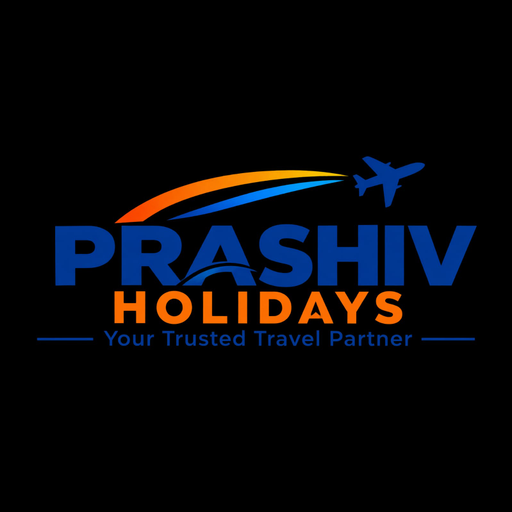
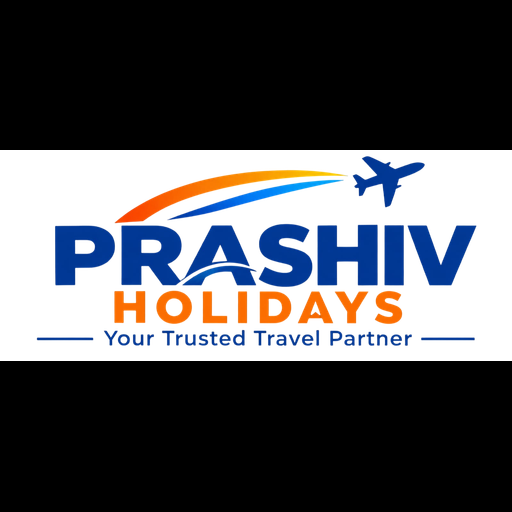
fix

diff --git a/app/admin/dashboard/page.js b/app/admin/dashboard/page.js
@@ -220,6 +220,17 @@ export default function Dashboard() {
       .then(s => { _demoMode = s?.demo_mode === 'true'; setDemoMode(_demoMode) })
       .catch(() => {})
   }, [])
+
+  useEffect(() => {
+    const isAnyModalOpen = !!modal || !!enqModal || !!testimonialModal;
+    if (isAnyModalOpen) {
+      document.body.style.overflow = 'hidden';
+    } else {
+      document.body.style.overflow = '';
+    }
+    return () => { document.body.style.overflow = ''; }
+  }, [modal, enqModal, testimonialModal])
+
   const [adminUsername, setAdminUsername] = useState('')
   const [newUsername, setNewUsername] = useState('')
   const [usernameSaving, setUsernameSaving] = useState(false)
@@ -810,7 +821,7 @@ export default function Dashboard() {
         {/* Sidebar */}
         <div style={{ width: 250, background: '#fff', borderRight: '1px solid #f3f4f6', height: '100vh', position: 'sticky', top: 0, display: 'flex', flexDirection: 'column', flexShrink: 0 }}>
           <div style={{ padding: '20px', display: 'flex', alignItems: 'center', gap: 10, borderBottom: '1px solid #f3f4f6' }}>
-            <Image src="/logo-new.jpeg" alt="Prashiv Holiday" width={96} height={96} style={{ objectFit: 'contain' }} />
+            <Image src="/logo-new.png" alt="Prashiv Holiday" width={96} height={96} style={{ objectFit: 'contain' }} />
           </div>
           <div style={{ flex: 1, padding: '20px 0', overflowY: 'auto' }}>
             {[

diff --git a/app/admin/page.js b/app/admin/page.js
@@ -55,7 +55,7 @@ export default function AdminLogin() {
           {/* Header */}
           <div style={{ padding: '32px 32px 24px', textAlign: 'center', background: 'linear-gradient(135deg,#013893,#0252D8)' }}>
             <div style={{ padding: '8px 16px', borderRadius: '12px', overflow: 'hidden', border: '2px solid rgba(255,255,255,0.3)', margin: '0 auto 16px' , background:'#ffffff', width: 'fit-content'}}>
-              <Image src="/logo-new.jpeg" alt="Prashiv Holiday" width={96} height={96} style={{ objectFit: 'contain' }} />
+              <Image src="/logo-new.png" alt="Prashiv Holiday" width={96} height={96} style={{ objectFit: 'contain' }} />
             </div>
             <h1 style={{ fontFamily: "'Playfair Display', serif", fontWeight: 700, fontSize: 22, color: '#fff', marginBottom: 4 }}>Prashiv Holiday</h1>
             <p style={{ fontSize: 13, color: 'rgba(255,255,255,0.6)' }}>Admin Panel</p>

diff --git a/components/AboutSection.js b/components/AboutSection.js
@@ -79,7 +79,7 @@ export default function AboutSection() {
             {/* Brand promise */}
             <div style={{ display: 'flex', gap: 20, alignItems: 'center', background: '#fff', padding: 24, borderRadius: 24, boxShadow: '0 4px 20px rgba(0,0,0,0.03)', border: '1px solid rgba(0,0,0,0.02)' }}>
               <div style={{ width: 80, height: 80, borderRadius: 16, overflow: 'hidden', flexShrink: 0, background: '#fff', boxShadow: '0 4px 10px rgba(0,0,0,0.1)' }}>
-                <img src="/logo-new.jpeg" alt="Prashiv Holiday" style={{ width: '100%', height: '100%', objectFit: 'contain', padding: 6 }} />
+                <img src="/logo-new.png" alt="Prashiv Holiday" style={{ width: '100%', height: '100%', objectFit: 'contain', padding: 6 }} />
               </div>
               <div>
                 <h4 style={{ fontWeight: 800, fontSize: '1.15rem', color: '#111', margin: 0 }}>Prashiv Holiday</h4>

diff --git a/components/Footer.js b/components/Footer.js
@@ -34,7 +34,7 @@ export default function Footer() {
           <div className="md:col-span-1">
             <div className="flex items-center gap-2 mb-4">
               <div className="w-28 h-28 shrink-0 relative">
-                <Image src="/logo-new.jpeg" alt="Prashiv Holiday" fill className="object-contain object-left" />
+                <Image src="/logo-new.png" alt="Prashiv Holiday" fill className="object-contain object-left" />
               </div>
             </div>
             <p className="text-sm leading-relaxed mb-4" style={{ color:'#4b5563' }}>15+ years of trusted expertise in customized Indian holidays and travel planning.</p>

diff --git a/app/agency/dashboard/page.js b/app/agency/dashboard/page.js
@@ -84,6 +84,15 @@ export default function AgencyDashboard() {
   }, [router])
 
   useEffect(() => {
+    if (modal) {
+      document.body.style.overflow = 'hidden';
+    } else {
+      document.body.style.overflow = '';
+    }
+    return () => { document.body.style.overflow = ''; }
+  }, [modal])
+
+  useEffect(() => {
     fetchPackages()
     fetch('/api/destinations').then(r => r.ok ? r.json() : []).then(setDestinations).catch(() => {})
     fetch('/api/agency/profile').then(r => r.ok ? r.json() : null).then(d => { if (d) { setAgencyName(d.name); setAgencyPhone(d.phone); setPhoneInput(d.phone) } }).catch(() => {})

diff --git a/components/FleetAdmin.js b/components/FleetAdmin.js
@@ -11,6 +11,15 @@ export default function FleetAdmin() {
   const [form, setForm] = useState({ id: null, name: '', category: '', tag: '', tagColor: '#3b82f6', tagBg: '#eff6ff', desc: '', img: '', features: '', capacity: '', orderIdx: 0 })
   const [saving, setSaving] = useState(false)
 
+  useEffect(() => {
+    if (modal) {
+      document.body.style.overflow = 'hidden'
+    } else {
+      document.body.style.overflow = ''
+    }
+    return () => { document.body.style.overflow = '' }
+  }, [modal])
+
   const fetchFleet = async () => {
     try {
       const res = await fetch('/api/fleet')

diff --git a/components/TeamAdmin.js b/components/TeamAdmin.js
@@ -11,6 +11,15 @@ export default function TeamAdmin() {
   const [form, setForm] = useState({ id: null, name: '', role: '', image_url: '' })
   const [saving, setSaving] = useState(false)
 
+  useEffect(() => {
+    if (modal) {
+      document.body.style.overflow = 'hidden'
+    } else {
+      document.body.style.overflow = ''
+    }
+    return () => { document.body.style.overflow = '' }
+  }, [modal])
+
   const fetchTeam = async () => {
     try {
       const res = await fetch('/api/team')

diff --git a/components/ClientsAdmin.js b/components/ClientsAdmin.js
@@ -11,6 +11,15 @@ export default function ClientsAdmin() {
   const [form, setForm] = useState({ id: null, name: '', logo_url: '' })
   const [saving, setSaving] = useState(false)
 
+  useEffect(() => {
+    if (modal) {
+      document.body.style.overflow = 'hidden'
+    } else {
+      document.body.style.overflow = ''
+    }
+    return () => { document.body.style.overflow = '' }
+  }, [modal])
+
   const fetchClients = async () => {
     try {
       const res = await fetch('/api/clients')

diff --git a/components/revamp/Navbar.js b/components/revamp/Navbar.js
@@ -43,7 +43,7 @@ const Navbar = () => {
             <Link href="/" className="flex items-center group">
               <div className="relative w-16 h-16 md:w-20 md:h-20 group-hover:opacity-90 transition-transform origin-left">
                 <Image
-                  src="/logo-new.jpeg"
+                  src="/logo-new.png"
                   alt="Prashiv Holiday"
                   fill
                   sizes="(max-width: 768px) 64px, 80px"

diff --git a/components/revamp/Footer.js b/components/revamp/Footer.js
@@ -13,7 +13,7 @@ const Footer = () => {
             <Link href="/" className="flex items-center group w-fit">
               <div className="relative w-28 h-28 bg-white p-2 rounded-2xl shadow-md group-hover:opacity-90 transition-opacity">
                 <Image
-                  src="/logo-new.jpeg"
+                  src="/logo-new.png"
                   alt="Prashiv Holiday"
                   fill
                   sizes="112px"

diff --git a/components/Navbar.js b/components/Navbar.js
@@ -42,7 +42,7 @@ export default function Navbar({ big = false }) {
           <Link href="/" className="flex items-center justify-center group">
             <div className="w-14 h-14 md:w-16 md:h-16 relative shrink-0">
               <Image
-                src="/logo-new.jpeg"
+                src="/logo-new.png"
                 alt="Prashiv Holiday"
                 fill
                 sizes="(max-width: 768px) 56px, 64px"

diff --git a/components/revamp/SplashScreen.js b/components/revamp/SplashScreen.js
@@ -35,7 +35,7 @@ const SplashScreen = () => {
       <div className="relative w-full h-full max-w-4xl mx-auto flex items-center justify-center p-4">
         {/* eslint-disable-next-line @next/next/no-img-element */}
         <img
-          src="/logo-new.jpeg"
+          src="/logo-new.png"
           alt="Prashiv Holiday"
           className="w-64 h-64 md:w-80 md:h-80 object-contain animate-fade-in"
         />
